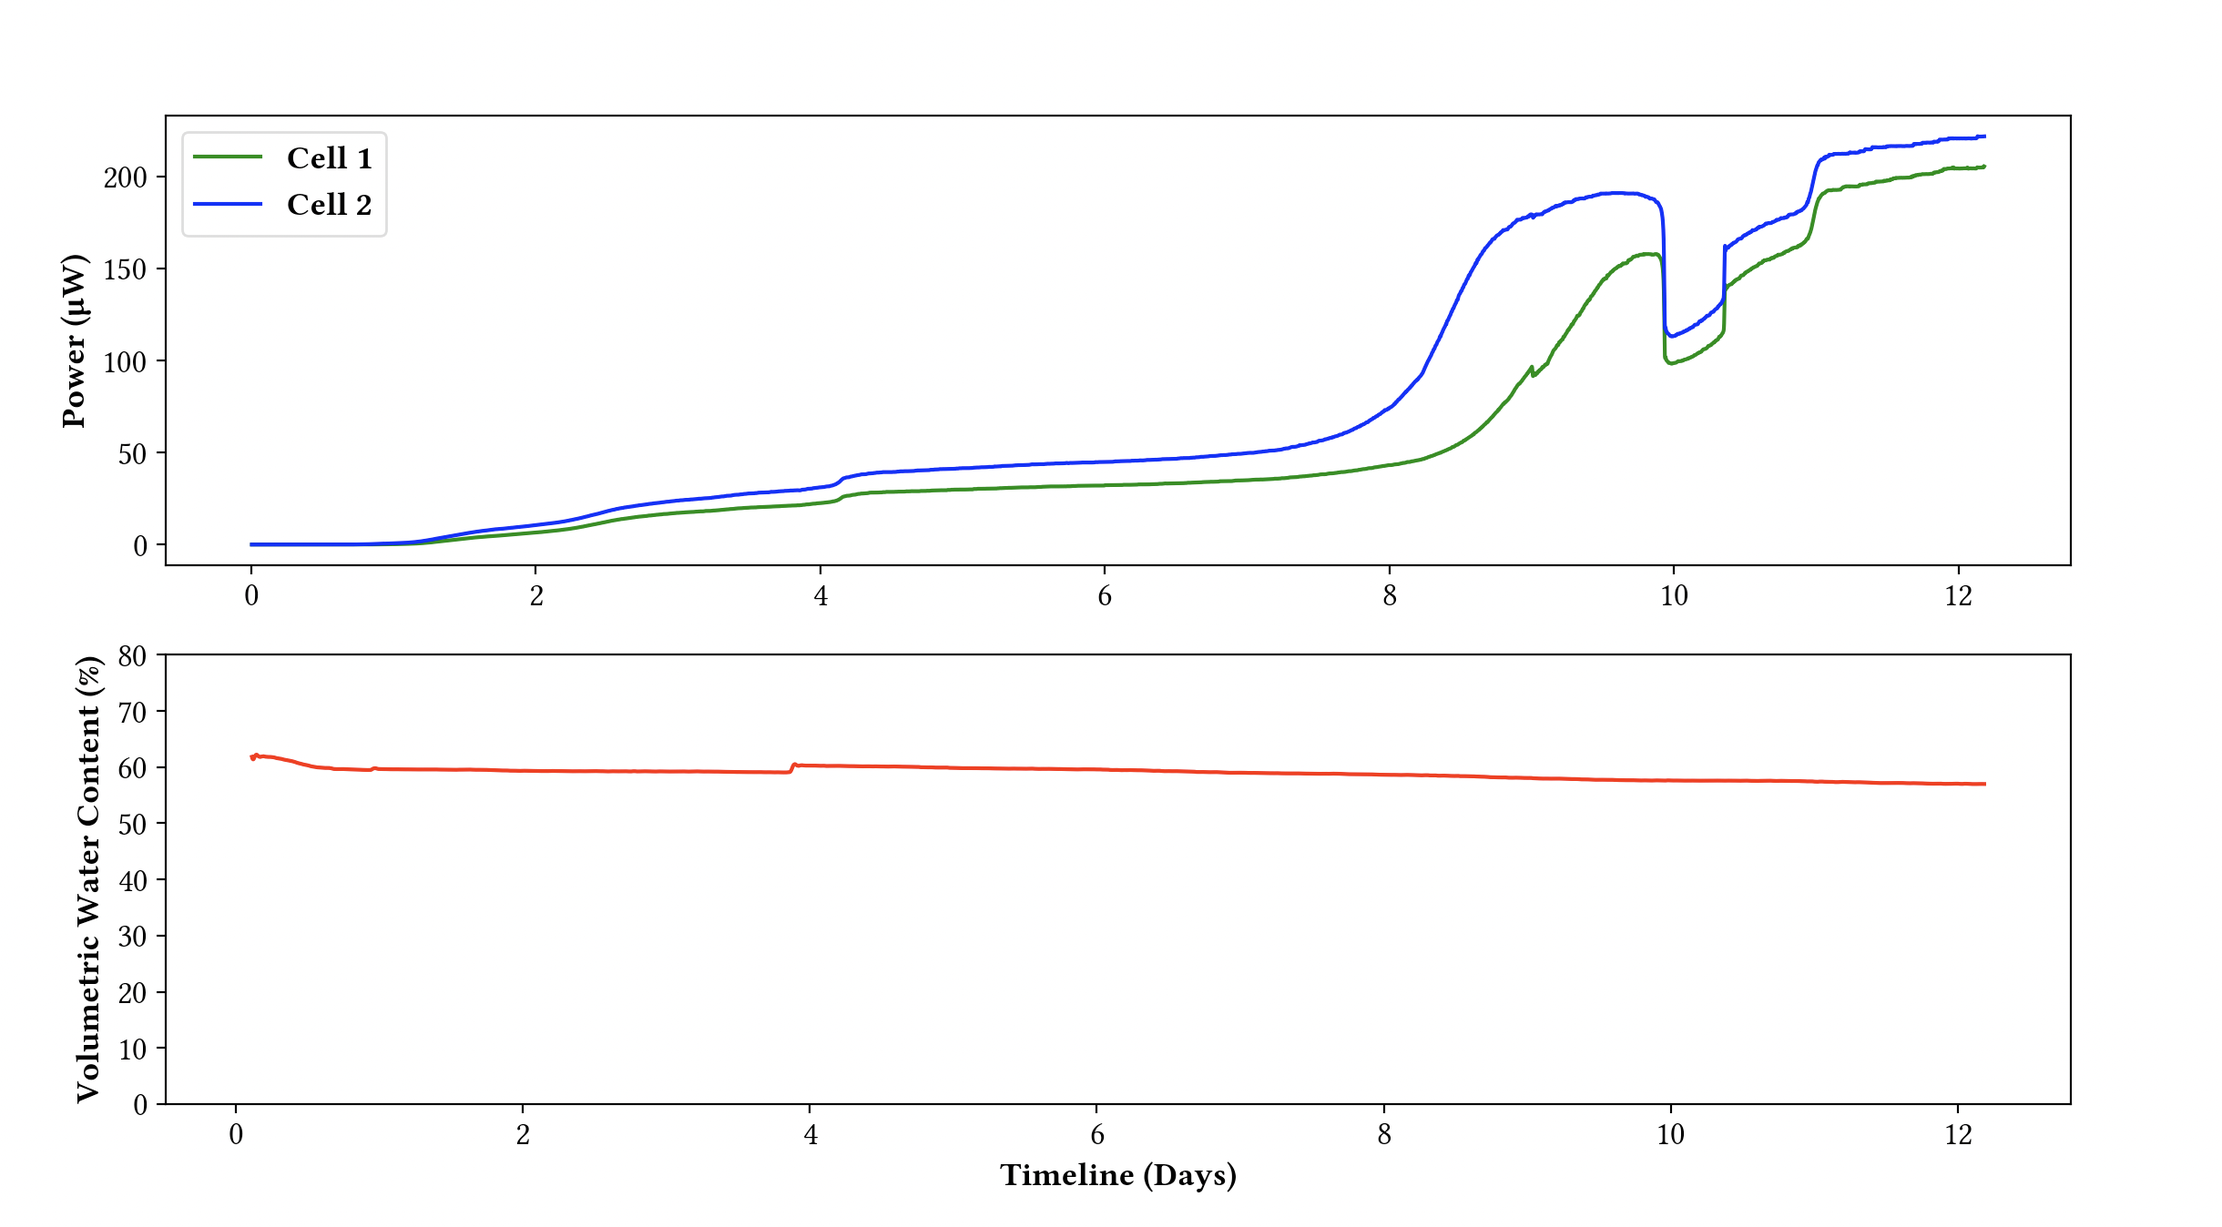
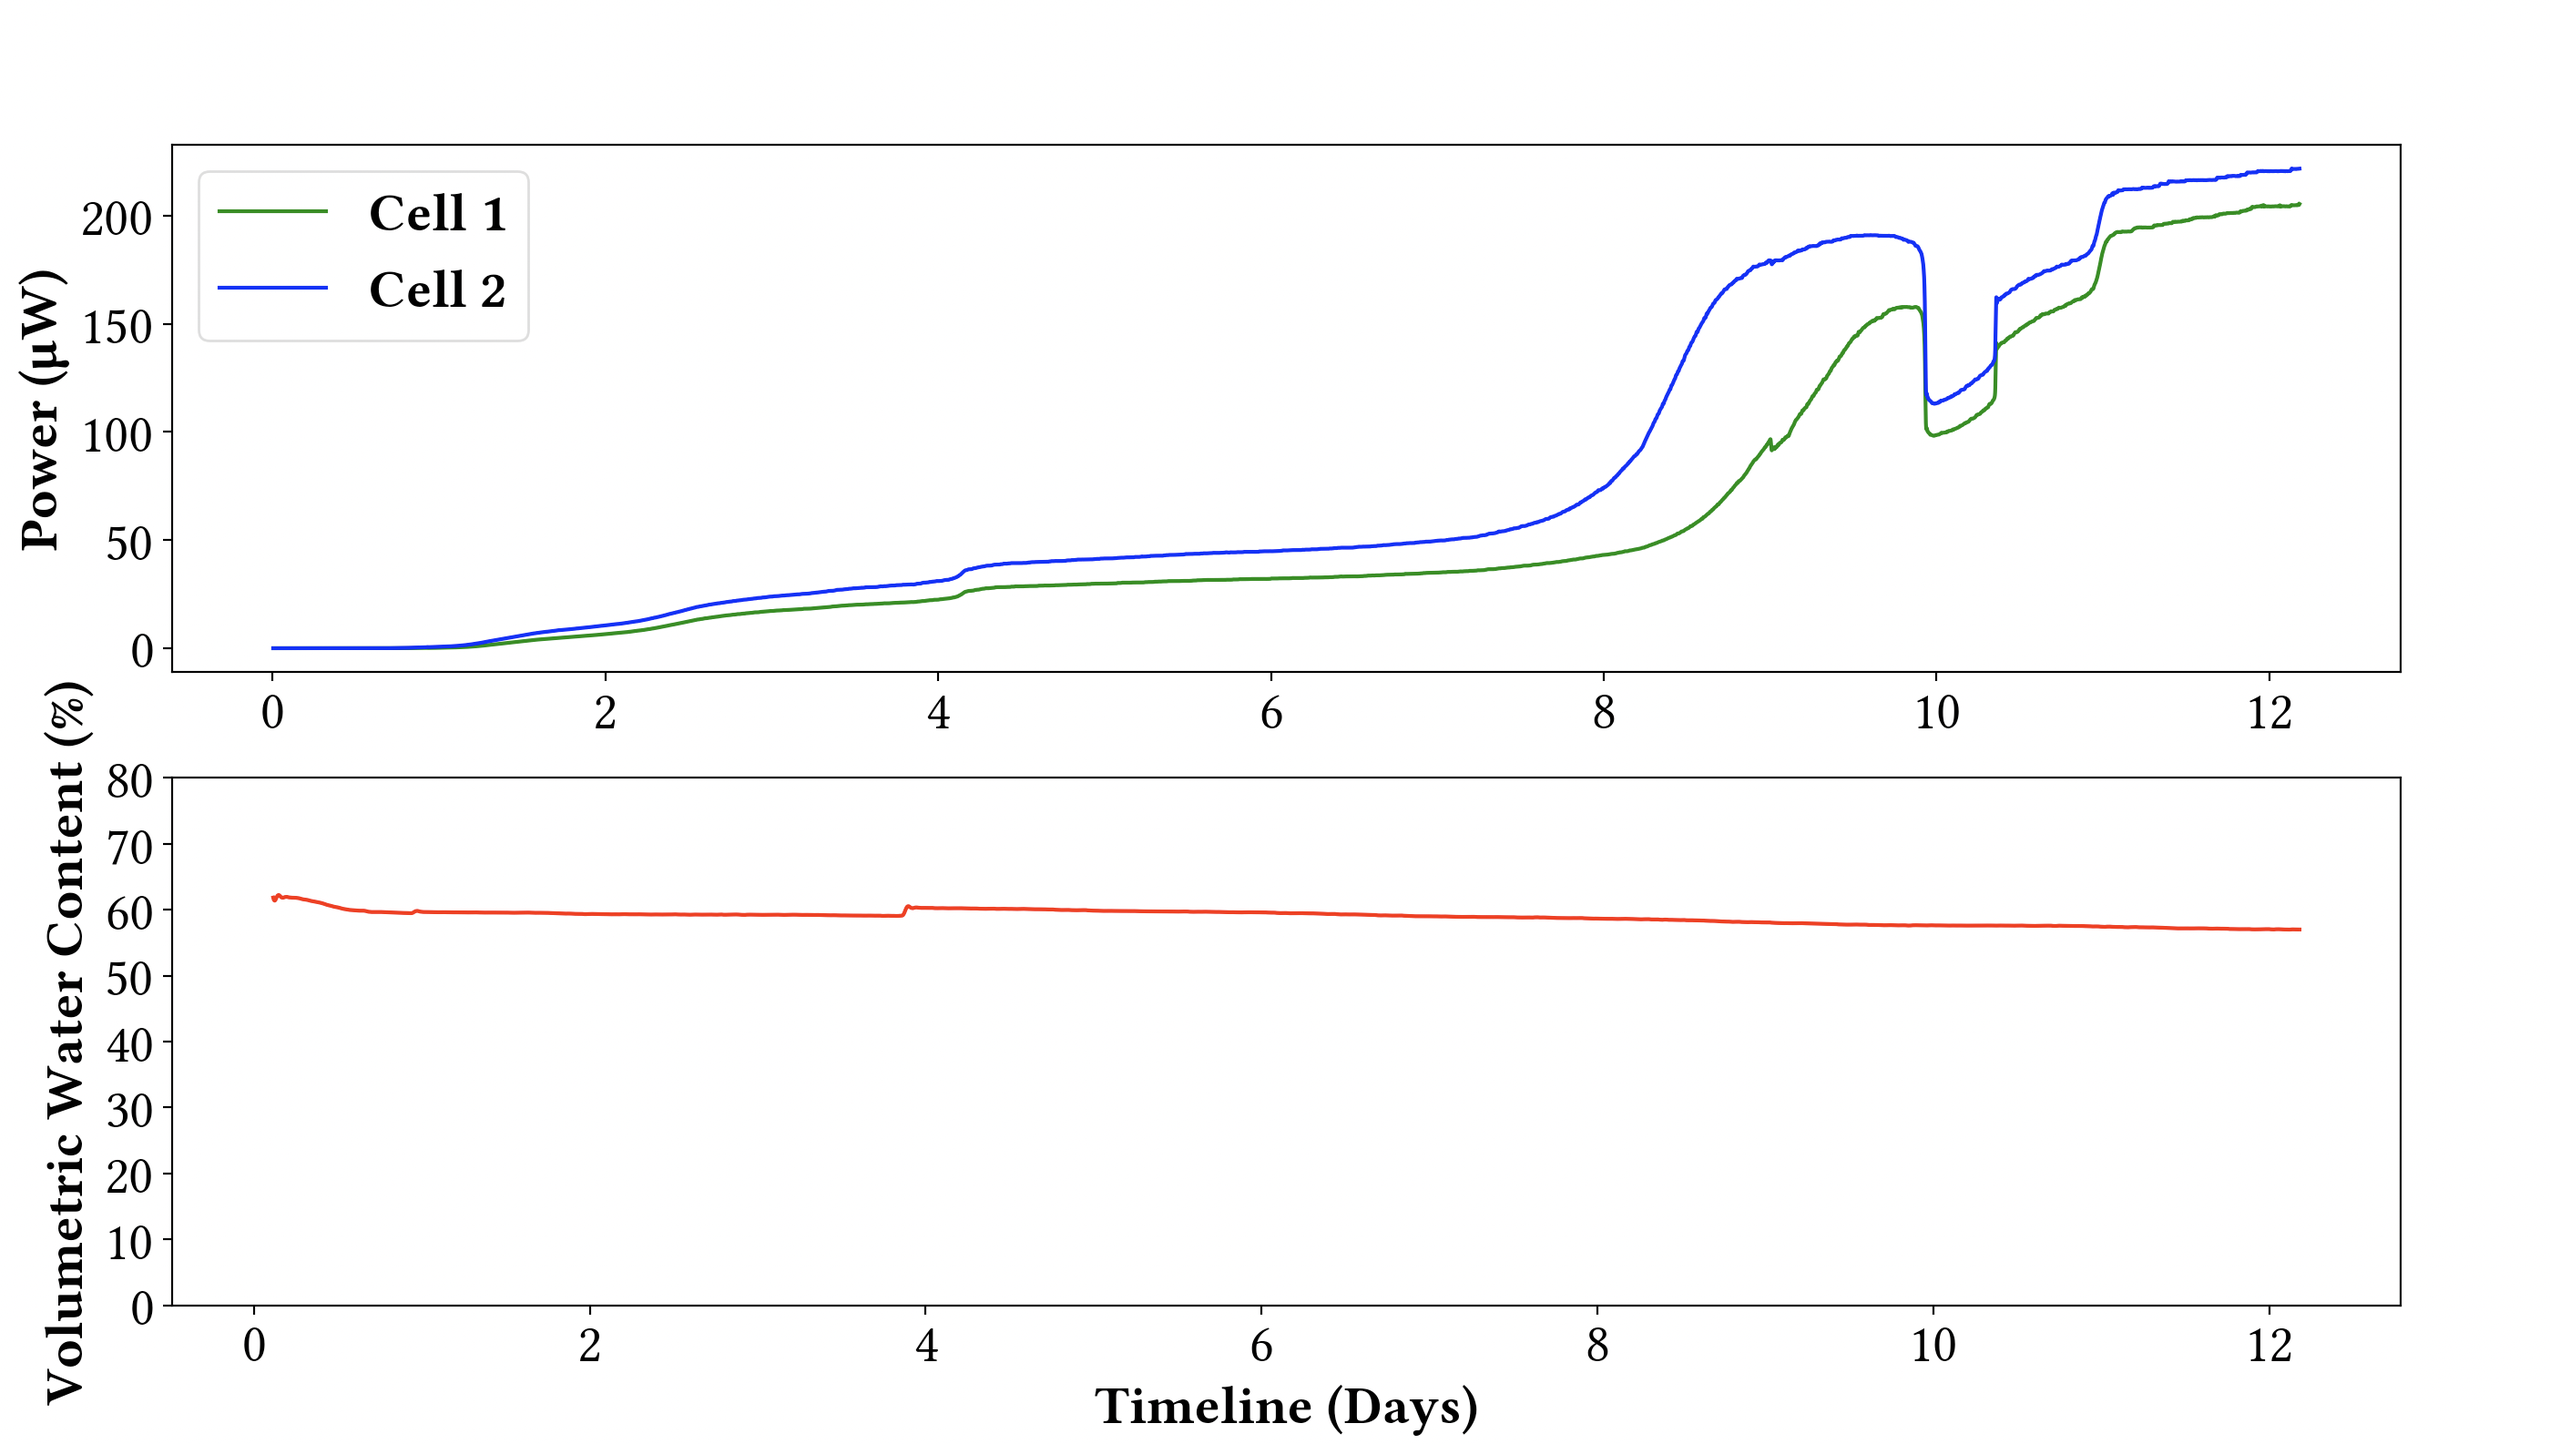
Larger fonts

diff --git a/v3_vwc.py b/v3_vwc.py
@@ -93,7 +93,6 @@ for i in range(0, len(v3_power)):
     vertical_ave.append((v1_power[i] + v2_power[i] + v3_power[i])/3)
     planar_ave.append((p1_power[i] + p2_power[i] + p3_power[i])/3)
 
-
 def butter_lowpass(cutoff, fs, order=5):
     return butter(order, cutoff, fs=fs, btype='low', analog=False)
 
@@ -105,7 +104,7 @@ def butter_lowpass_filter(data, cutoff, fs, order=5):
 # Filter requirements.
 order = 6
 fs = 1/60      # sample rate, Hz
-cutoff = 1/(12*3600)  # desired cutoff frequency of the filter, Hz
+cutoff = 1/(24*3600)  # desired cutoff frequency of the filter, Hz
 
 # Get the filter coefficients so we can check its frequency response.
 b, a = butter_lowpass(cutoff, fs, order)
@@ -120,6 +119,7 @@ t = np.linspace(0, T, n, endpoint=False)
 data = np.sin(1.2*2*np.pi*t) + 1.5*np.cos(9*2*np.pi*t) + 0.5*np.sin(12.0*2*np.pi*t)
 # new_v2 = np.array(v2_power)
 # Filter the data, and plot both the original and filtered signals.
+vwc_filter = butter_lowpass_filter(vwc, cutoff, fs, order)
 y1 = butter_lowpass_filter(v1_power, cutoff, fs, order)
 y2 = butter_lowpass_filter(v2_power, cutoff, fs, order)
 y3 = butter_lowpass_filter(v3_power, cutoff, fs, order)
@@ -128,53 +128,33 @@ y5 = butter_lowpass_filter(p2_power, cutoff, fs, order)
 y6 = butter_lowpass_filter(p3_power, cutoff, fs, order)
 v_ave = butter_lowpass_filter(vertical_ave, cutoff, fs, order)
 p_ave = butter_lowpass_filter(planar_ave, cutoff, fs, order)
-
-# # plot line
 fig, ax = plt.subplots()
-ax.plot(days, v_ave, label = "Vert. Avg.", alpha = 1, color= (0,0.1,1))
-ax.plot(days, y1, label = "Vert. 1", alpha = 0.2, color= (0,0.2,0.5))
-ax.plot(days, y2, label='Vert. 2', alpha = 0.2, color= (0,0.4,0.5))
-ax.plot(days, y3, label = "Vert. 3", alpha = 0.2, color= (0,0.6,0.5))
+ax.plot(vwc[93660:], v_ave[93660:], label = "Vert. Ave.", alpha = 1, color= (0,0.1,1))
+ax.plot(vwc[93660:], y1[93660:], label = "Vert. 1", alpha = 0.2, color= (0,0.2,0.5))
+ax.plot(vwc[93660:], y2[93660:], label='Vert. 2', alpha = 0.2, color= (0,0.4,0.5))
+ax.plot(vwc[93660:], y3[93660:], label = "Verti. 3", alpha = 0.2, color= (0,0.6,0.5))
 
-ax.plot(days, p_ave, label = "Hori. Avg.", alpha = 1, color= (1,0.1,0))
-ax.plot(days, y4, label = "Hori. 1", alpha = 0.2, color= (0.5,0.2,0))
-ax.plot(days, y5, label = "Hori. 2", alpha = 0.2, color= (0.5,0.4,0))
-ax.plot(days, y6, label = "Hori. 3", alpha = 0.2, color= (0.5,0.6,0))
+ax.plot(vwc[93660:], p_ave[93660:], label = "Hori. Ave.", alpha = 1, color= (1,0.1,0))
+ax.plot(vwc[93660:], y4[93660:], label = "Hori. 1", alpha = 0.2, color= (0.5,0.2,0))
+ax.plot(vwc[93660:], y5[93660:], label = "Hori. 2", alpha = 0.2, color= (0.5,0.4,0))
+ax.plot(vwc[93660:], y6[93660:], label = "Hori. 3", alpha = 0.2, color= (0.5,0.6,0))
 
-ax.legend("upper left")
-
-# print(days[35048])
-# print(days[64603])
-#example of vertical line plotting
-# ax.axvspan(8, 14, alpha=0.5, color='red')
-# started drying cells'
-# plt.axvline(x = 25.536006944444445, alpha = 0.2, color = 'yellow')
-# # label = 'reflooded cells'
-plt.axvspan(0, 25.536006944444445, color = 'blue', alpha = 0.1)
-plt.axvspan(25.536006944444445, 46.53662037037037, color = 'yellow', alpha = 0.2)
-plt.axvspan(46.53662037037037, 67.1998263888889, color = 'blue', alpha = 0.1)
-plt.axvspan(67.1998263888889, 69.89245370370371, color = 'yellow', alpha = 0.2)
-
-plt.axhline(y=50, color='green', linestyle="dashed")
-# # label = 'started drying again'
-# plt.axvspan(74.551516, 85, color = 'yellow', alpha = 0.2)
-
+# print(days.index(67.1998263888889))
 #import custom font
 from matplotlib import font_manager
 font_path = './font/linux_libertine/LinLibertine_RB.ttf'  # the location of the font file
-my_font = font_manager.FontProperties(fname=font_path, size=16)  # get the font based on the font_path, set font size
+my_font = font_manager.FontProperties(fname=font_path, size=18)  # get the font based on the font_path, set font size
 
 font_path2 = './font/linux_libertine/LinLibertine_R.ttf'  # the location of the font file
 my_font2 = font_manager.FontProperties(fname=font_path2, size=22)  # get the font based on the font_path, set font size
 
 #set font type of x and y axis
-plt.ylabel('Power (µW)', fontproperties=my_font, size=22)
-plt.xlabel('Timeline (Days)', fontproperties=my_font, size=22)
+plt.ylabel('Power (µW)', fontproperties=my_font)
+plt.xlabel('Volumetric Water Content (%)', fontproperties=my_font)
 
-plt.text(1.02, 52, 'MARS', size=20,  color='green', fontproperties=my_font)
-plt.text(9.17, 226.7, 'Flooded', size=20,  fontproperties=my_font)
-plt.text(33.53, 226.7, 'Drying',  size=20, fontproperties=my_font)
-plt.text(54.46, 226.7, 'Flooded',  size=20, fontproperties=my_font)
+# plt.text(11.17, 226.7, 'Flooded', size=18,  fontproperties=my_font)
+# plt.text(33.53, 226.7, 'Drying',  size=18, fontproperties=my_font)
+# plt.text(54.46, 226.7, 'Flooded',  size=18, fontproperties=my_font)
 
 #set font type of tickmarks
 for label in ax.get_xticklabels():
@@ -183,13 +163,6 @@ for label in ax.get_yticklabels():
     label.set_fontproperties(my_font2)
 
 #set font type of legend
-# plt.legend(loc="lower left", bbox_to_anchor=(0.75,0.27), prop=my_font)
-# Shrink current axis's height by 10% on the bottom
-box = ax.get_position()
-ax.set_position([box.x0, box.y0 + box.height * 0.1,
-                 box.width, box.height * 0.9])
-
-# Put a legend below current axis
-ax.legend(loc='upper center', bbox_to_anchor=(0.5, -0.125),
-          fancybox=True, ncol=8, prop=my_font)
+plt.legend(loc="upper left", prop=my_font)
+# ax.plot(days[93660:], vwc_filter[93660:], alpha = 1, color= (0,0.1,1))
 plt.show()

diff --git a/buffer_2CLEAN.py b/buffer_2CLEAN.py
@@ -233,15 +233,15 @@ p_ave = butter_lowpass_filter(planar_ave, cutoff, fs, order)
 
 # # plot line
 fig, ax = plt.subplots()
-ax.plot(days[:115102], v_ave[:115102], label = "Vertical Average", alpha = 1, color= (0,0.1,1))
-ax.plot(days[:115102], y1[:115102], label = "Vertical 1", alpha = 0.2, color= (0,0.2,0.5))
-ax.plot(days[:115102], y2[:115102], label='Vertical 2', alpha = 0.2, color= (0,0.4,0.5))
-ax.plot(days[:115102], y3[:115102], label = "Vertical 3", alpha = 0.2, color= (0,0.6,0.5))
+ax.plot(days[:115102], v_ave[:115102], label = "Vert. Avg.", alpha = 1, color= (0,0.1,1))
+ax.plot(days[:115102], y1[:115102], label = "Vert. 1", alpha = 0.2, color= (0,0.2,0.5))
+ax.plot(days[:115102], y2[:115102], label='Vert. 2', alpha = 0.2, color= (0,0.4,0.5))
+ax.plot(days[:115102], y3[:115102], label = "Vert. 3", alpha = 0.2, color= (0,0.6,0.5))
 # ax.plot(days[:105102], h1_volt[:105102], label = "Horizontal 1 V", alpha = 1, color= (1, 0, 0))
-ax.plot(days[:115102], p_ave[:115102], label = "Horizontal Average", alpha = 1, color= (1,0.1,0))
-ax.plot(days[:115102], y4[:115102], label = "Horizontal 1", alpha = 0.2, color= (0.5,0.2,0))
-ax.plot(days[:115102], y5[:115102], label = "Horizontal 2", alpha = 0.2, color="red")
-ax.plot(days[:115102], y6[:115102], label = "Horizontal 3", alpha = 0.2, color= (0.5,0.4,0))
+ax.plot(days[:115102], p_ave[:115102], label = "Hori. Avg.", alpha = 1, color= (1,0.1,0))
+ax.plot(days[:115102], y4[:115102], label = "Hori. 1", alpha = 0.2, color= (0.5,0.2,0))
+ax.plot(days[:115102], y5[:115102], label = "Hori. 2", alpha = 0.2, color="red")
+ax.plot(days[:115102], y6[:115102], label = "Hori. 3", alpha = 0.2, color= (0.5,0.4,0))
 ax.legend("upper left")
 
 # started drying cells'
@@ -253,23 +253,25 @@ plt.axvspan(0, 50.153796,color = 'blue', alpha = 0.1)
 plt.axvspan(50, 58.886458, color = 'yellow', alpha = 0.2)
 plt.axvspan(58.886458, 74.551516, color = 'blue', alpha = 0.1)
 # label = 'started drying again'
-plt.axvspan(74.551516, 85, color = 'yellow', alpha = 0.2)
-
+plt.axvspan(74.551516, 83.43108796296296, color = 'yellow', alpha = 0.2)
+print(days[115102])
 #import custom font
 from matplotlib import font_manager
 font_path = './font/linux_libertine/LinLibertine_RB.ttf'  # the location of the font file
-my_font = font_manager.FontProperties(fname=font_path, size=13)  # get the font based on the font_path, set font size
+my_font = font_manager.FontProperties(fname=font_path, size=22)  # get the font based on the font_path, set font size
 
 font_path2 = './font/linux_libertine/LinLibertine_R.ttf'  # the location of the font file
-my_font2 = font_manager.FontProperties(fname=font_path2, size=13)  # get the font based on the font_path, set font size
+my_font2 = font_manager.FontProperties(fname=font_path2, size=22)  # get the font based on the font_path, set font size
 #set font type of x and y axis
 plt.ylabel('Power (µW)', fontproperties=my_font)
 plt.xlabel('Timeline (Days)', fontproperties=my_font)
 #adding text inside the plot
-plt.text(22.11, 245.5, 'Flooded', fontsize = 18,  fontproperties=my_font)
-plt.text(51.25, 245.5, 'Drying', fontsize = 18,  fontproperties=my_font)
-plt.text(63, 245.5, 'Flooded', fontsize = 18,  fontproperties=my_font)
-plt.text(76.5, 245.5, 'Drying', fontsize = 18,  fontproperties=my_font)
+plt.axhline(y=50, color='green', linestyle="dashed")
+plt.text(1.02, 52, 'MARS', size=20,  color='green', fontproperties=my_font)
+plt.text(22.11, 245.5, 'Flooded', fontsize = 22,  fontproperties=my_font)
+plt.text(51, 245.5, 'Drying', fontsize = 22,  fontproperties=my_font)
+plt.text(63, 245.5, 'Flooded', fontsize = 22,  fontproperties=my_font)
+plt.text(75.5, 245.5, 'Drying', fontsize = 22,  fontproperties=my_font)
 #set font type of tickmarks
 for label in ax.get_xticklabels():
     label.set_fontproperties(my_font2)

diff --git a/buffer_1.py b/buffer_1.py
@@ -147,9 +147,9 @@ ax.plot(days[:60000], y1[:60000], alpha = 1, color= (0,0.2,0.5))
 #import custom font
 from matplotlib import font_manager
 font_path = './font/linux_libertine/LinLibertine_RB.ttf'  # the location of the font file
-my_font = font_manager.FontProperties(fname=font_path, size=14)  # get the font based on the font_path, set font size
+my_font = font_manager.FontProperties(fname=font_path, size=22)  # get the font based on the font_path, set font size
 font_path2 = './font/linux_libertine/LinLibertine_R.ttf'  # the location of the font file
-my_font2 = font_manager.FontProperties(fname=font_path2, size=14)  # get the font based on the font_path, set font size
+my_font2 = font_manager.FontProperties(fname=font_path2, size=22)  # get the font based on the font_path, set font size
 #set font type of x and y axis
 plt.ylabel('Power (µW)', fontproperties=my_font)
 plt.xlabel('Timeline (Days)', fontproperties=my_font)

diff --git a/prelim.py b/prelim.py
@@ -158,10 +158,10 @@ power2_filtered = butter_lowpass_filter(power2, cutoff, fs, order)
 #import custom font
 from matplotlib import font_manager
 font_path = './font/linux_libertine/LinLibertine_RB.ttf'  # the location of the font file
-my_font = font_manager.FontProperties(fname=font_path, size=13)  # get the font based on the font_path, set font size
+my_font = font_manager.FontProperties(fname=font_path, size=21)  # get the font based on the font_path, set font size
 
 font_path2 = './font/linux_libertine/LinLibertine_R.ttf'  # the location of the font file
-my_font2 = font_manager.FontProperties(fname=font_path2, size=13)  # get the font based on the font_path, set font size
+my_font2 = font_manager.FontProperties(fname=font_path2, size=21)  # get the font based on the font_path, set font size
 
 fig, (ax1, ax2) = plt.subplots(2)
 
